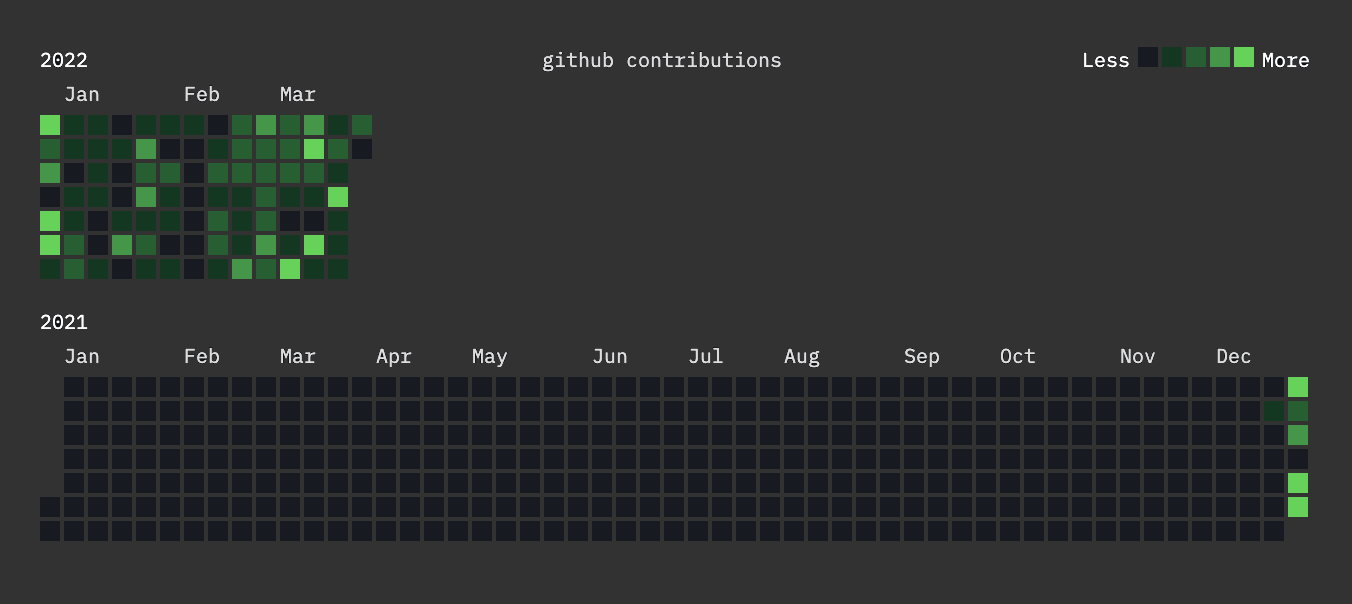
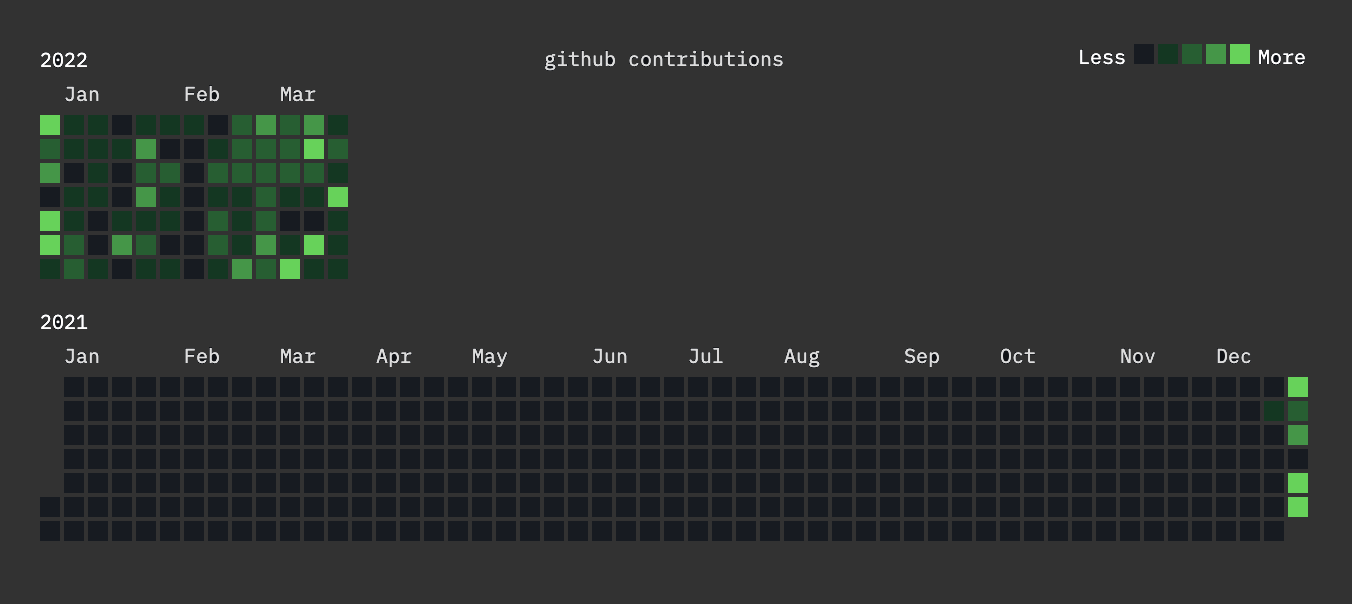
deploy fix

Changed region(s): [[0.7766, 0.0596, 0.963, 0.1192], [0.4038, 0.0894, 0.5902, 0.1192], [0.2485, 0.1788, 0.2796, 0.2682]]

diff --git a/pages/about.html b/pages/about.html
@@ -89,25 +89,10 @@
             </div>
         </div>
 
-        <!-- <div id='githubContributions' class="container-fluid text-center">
+        <div id='githubContributions' class="container-fluid text-center">
             <a href="https://github.com/codeTrackLift" target="_blank">
-                <img src="../pics/about/githubContributions_100Days.jpg" alt="GitHub contribution">
+                <img src="../pics/about/githubContributions.png" alt="GitHub contribution">
             </a>
-        </div> -->
-
-        <div id='githubContributions' class="carousel slide carousel-fade" data-bs-ride="carousel">
-            <div class="carousel-inner">
-                <div class="carousel-item active" data-bs-interval="3000">
-                    <a href="https://github.com/codeTrackLift" target="_blank">
-                        <img src="../pics/about/githubContributions_100Days.jpg" class='img-fluid w-100 h-100' alt="GitHub contribution">
-                    </a>
-                </div>
-                <div class="carousel-item" data-bs-interval="3000">
-                    <a href="https://github.com/codeTrackLift" target="_blank">
-                        <img src="../pics/about/githubContributions.png" class='img-fluid w-100 h-100' alt="GitHub contribution">
-                    </a>
-                </div>
-            </div>
         </div>
 
         <div id="personal" class="myArticles container-fluid">
@@ -148,41 +133,33 @@
         </div>
 
         <div id='bottomNav' class="container-fluid">
-            <h5 class="menloRegular text-silver textShadowBlack text-center mx-auto" style="max-width: 640px;"><span
-                    class="text-white">Need help with a project?</span> Read blog articles about my Coding Bootcamp
-                experience.</h5>
+            <h5 class="menloRegular text-silver textShadowBlack text-center mx-auto" style="max-width: 640px;"><span class="text-white">Need help with a project?</span> Read blog articles about my Coding Bootcamp experience.</h5>
             <div class="btnContainer container-fluid text-center mt-4 d-flex justify-content-evenly">
-                <a id='buttonContact' onclick="buttonEffect('buttonContact')" href="../pages/contact.html"
-                    class="btn btn-secondary btnDark">Contact</a>
-                <a id='buttonBlog' onclick="buttonEffect('buttonBlog')" href="../pages/blog.html"
-                    class="btn btn-secondary">My Blog</a>
+                <a id='buttonContact' onclick="buttonEffect('buttonContact')"
+                    href="../pages/contact.html" class="btn btn-secondary btnDark">Contact</a>
+                <a id='buttonBlog' onclick="buttonEffect('buttonBlog')"
+                    href="../pages/blog.html" class="btn btn-secondary">My Blog</a>
             </div>
         </div>
 
         <div id="carousel" class="carousel slide" data-bs-ride="carousel">
             <div class="carousel-inner">
                 <div class="carousel-item active">
-                    <h3 class="px-5 text-gray textShadowBlack" style="font-style:italic;">"If something is truly
-                        important to you, pursue it relentlessly."</h3>
+                    <h3 class="px-5 text-gray textShadowBlack" style="font-style:italic;">"If something is truly important to you, pursue it relentlessly."</h3>
                     <figcaption class="blockquote-footer text-end mt-3 mx-5">
-                        <cite title="Source Title" class="text-white" style="opacity:0.6;">quote<span
-                                style="color:#00857c">By</span><span style="color:lime">Pete</span></cite>
+                        <cite title="Source Title" class="text-white" style="opacity:0.6;">quote<span style="color:#00857c">By</span><span style="color:lime">Pete</span></cite>
                     </figcaption>
                 </div>
                 <div class="carousel-item">
-                    <h3 class="px-5 text-gray textShadowBlack" style="font-style:italic;">"I'm a fast learner, if I had
-                        a 'super-power' it would be the ability to focus."</h3>
+                    <h3 class="px-5 text-gray textShadowBlack" style="font-style:italic;">"I'm a fast learner, if I had a 'super-power' it would be the ability to focus."</h3>
                     <figcaption class="blockquote-footer text-end mt-3 mx-5">
-                        <cite title="Source Title" class="text-white" style="opacity:0.6;">quote<span
-                                style="color:#00857c">By</span><span style="color:lime">Pete</span></cite>
+                        <cite title="Source Title" class="text-white" style="opacity:0.6;">quote<span style="color:#00857c">By</span><span style="color:lime">Pete</span></cite>
                     </figcaption>
                 </div>
                 <div class="carousel-item">
-                    <h3 class="px-5 text-gray textShadowBlack" style="font-style:italic;">"A frustrating experience can
-                        be reframed into a progression opportunity."</h3>
+                    <h3 class="px-5 text-gray textShadowBlack" style="font-style:italic;">"A frustrating experience can be reframed into a progression opportunity."</h3>
                     <figcaption class="blockquote-footer text-end mt-3 mx-5">
-                        <cite title="Source Title" class="text-white" style="opacity:0.6;">quote<span
-                                style="color:#00857c">By</span><span style="color:lime">Pete</span></cite>
+                        <cite title="Source Title" class="text-white" style="opacity:0.6;">quote<span style="color:#00857c">By</span><span style="color:lime">Pete</span></cite>
                     </figcaption>
                 </div>
             </div>
